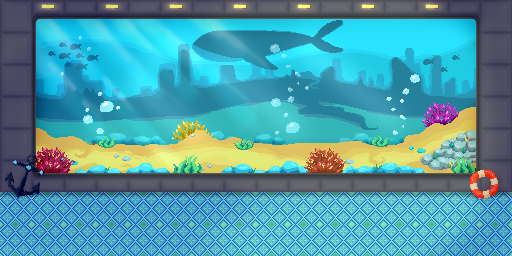
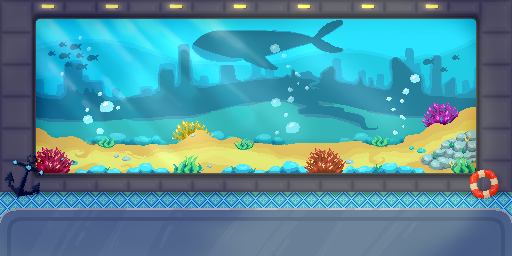
new bgs and no more bar image

Changed region(s): [[0.0, 0.8125, 1.0, 1.0]]

diff --git a/src/components/game.tsx b/src/components/game.tsx
@@ -22,13 +22,6 @@ const Game: React.FC = () => {
       }}
       className={"pixel bg-no-repeat h-screen flex flex-col items-center justify-center w-full"}
     >
-      {/* Bar foreground image */}
-      <img
-        className={"pixel w-full h-[22%] absolute bottom-0 z-[0]"}
-        src={"assets/bar/bar.png"}
-        alt={"Bar background image"}
-      />
-
       {/* TOP */}
       <div
         className={

diff --git a/src/data/index.ts b/src/data/index.ts
@@ -248,7 +248,7 @@ const BAR_UPGRADES: {
     {
       name: "Music",
       texture: "music",
-      description: "I wanna scream and shout! Oh yeah!",
+      description: "I wanna scream and shout! But no one can hear me in space.",
       costs: [20, 100, 200, 500],
       flatIncrease: true,
       increases: [1, 2, 5, 10],
